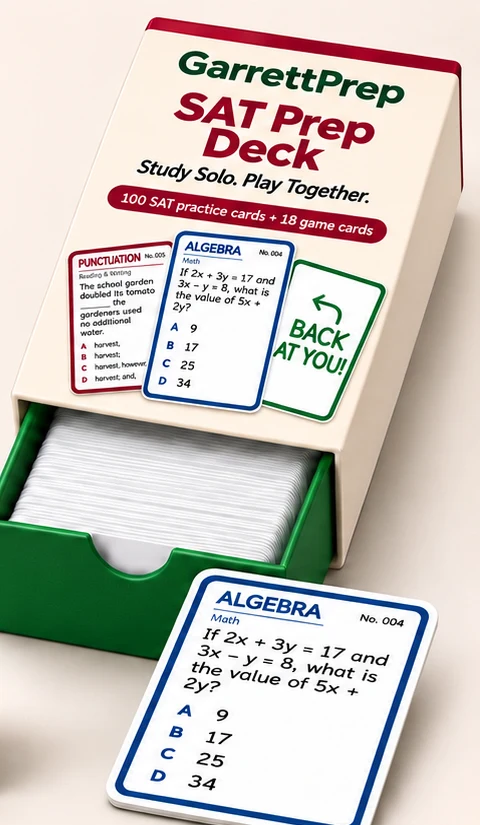
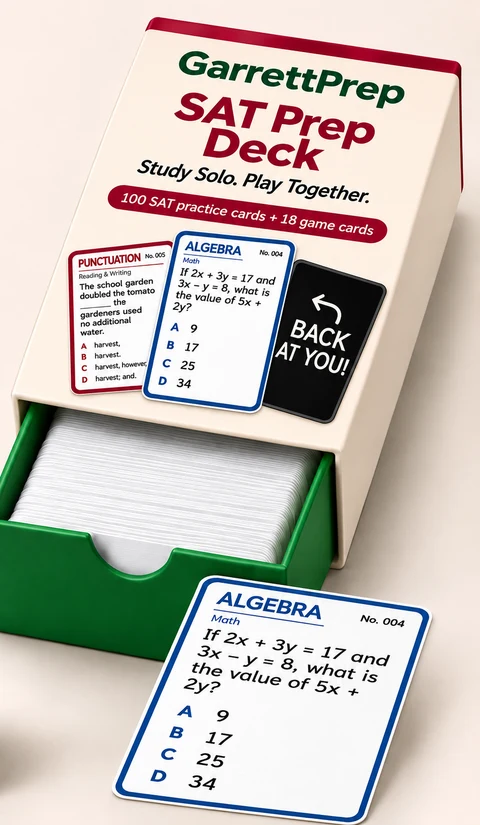
Refine deck imagery and black gameplay card preview

diff --git a/index.html b/index.html
@@ -68,13 +68,11 @@
 <span class="number">01 / STUDY SOLO</span>
 <h3>One question at a time.</h3>
 <p>Draw a card, work through the question, and flip it over. Each answer comes with an explanation and a clue to help you recognize the approach next time.</p>
-<p class="steps">Draw → Answer → Understand</p>
 </article>
 <article>
 <span class="number">02 / PLAY TOGETHER</span>
 <h3>Bring everyone to the table.</h3>
 <p>Answer questions for points, pass a tough one, or send it back with BACK AT YOU! Choose your answer and reveal together. Up to six players can join in.</p>
-<p class="steps">Think → Choose → Reveal</p>
 </article>
 </div>
 </section>
@@ -116,10 +114,10 @@
 </article>
 <article class="sample">
 <div class="card-stage">
-<button class="card-flip" type="button" data-flip="game" aria-pressed="false" aria-label="BACK AT YOU! gameplay card. Flip to see the GarrettPrep logo on the back.">
+<button class="card-flip" type="button" data-flip="game" aria-pressed="false" aria-label="Black BACK AT YOU! gameplay card. Flip to see the GarrettPrep wordmark on the back.">
 <span class="card-flip-inner">
 <span class="card-face card-front"><img src="assets/game-front.webp" width="525" height="750" alt="" aria-hidden="true" loading="lazy"></span>
-<span class="card-face card-back brand-card-back"><img class="brand-card-logo" src="assets/garrettprep-logo.png" width="112" height="112" alt="" aria-hidden="true" loading="lazy"></span>
+<span class="card-face card-back brand-card-back"><span class="game-back-wordmark" aria-hidden="true">GarrettPrep</span></span>
 </span>
 </button>
 </div>

diff --git a/styles.css b/styles.css
@@ -140,7 +140,7 @@ h3 {
   margin:0;
   position:relative;
   background:#f1eae0;
-  border-radius:120px 120px 8px 8px;
+  border-radius:16px;
   overflow:hidden}
 .hero-art img {
   width:100%;
@@ -187,12 +187,6 @@ h3 {
   margin-bottom:20px}
 .ways p {
   max-width:475px}
-.steps {
-  font-family:Georgia,serif;
-  font-style:italic;
-  color:var(--green);
-  font-size:21px;
-  margin-top:30px}
 .inside {
   background:#eaf0e6}
 .section-top {
@@ -269,16 +263,19 @@ h3 {
   display:flex;
   justify-content:center;
   align-items:center;
-  border:8px solid var(--green);
-  background:#fffdf7}
-.brand-card-back .brand-card-logo {
-  display:block;
-  width:72%;
-  height:auto;
-  max-height:72%;
-  border-radius:50%;
-  object-fit:contain;
-  box-shadow:none}
+  border:8px solid #f8f5ef;
+  background:#111;
+  box-shadow:inset 0 0 0 12px #111,0 10px 18px #193f2820}
+.game-back-wordmark {
+  color:#f8f5ef;
+  font-family:Arial,Helvetica,sans-serif;
+  font-weight:800;
+  font-size:clamp(13px,2.15vw,23px);
+  letter-spacing:-.05em;
+  white-space:nowrap}
+@media(max-width:540px) {
+  .game-back-wordmark {font-size:clamp(18px,5.6vw,27px)}
+}
 .card-flip:focus-visible {
   outline:3px solid var(--wine);
   outline-offset:6px}

diff --git a/script.js b/script.js
@@ -22,8 +22,8 @@ const cardLabels = {
     answer: "Math answer: C, 25. Add the two equations to get 5x plus 2y equals 25. Flip to return to the question."
   },
   game: {
-    question: "BACK AT YOU! gameplay card with a reversal arrow. Flip to see the GarrettPrep logo.",
-    answer: "GarrettPrep logo on the back of the BACK AT YOU! card. Flip to return to the front."
+    question: "Black BACK AT YOU! gameplay card with a reversal arrow. Flip to see the GarrettPrep wordmark.",
+    answer: "GarrettPrep wordmark on the black back of the BACK AT YOU! card. Flip to return to the front."
   }
 };
 document.querySelectorAll(".card-flip[data-flip]").forEach(button => {
